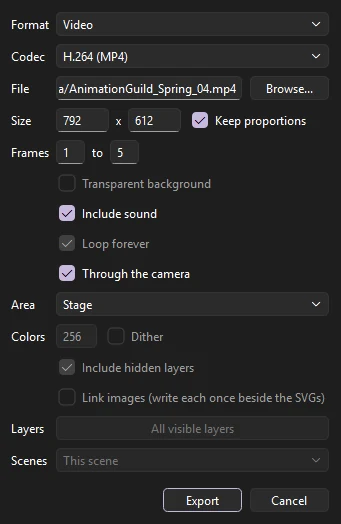
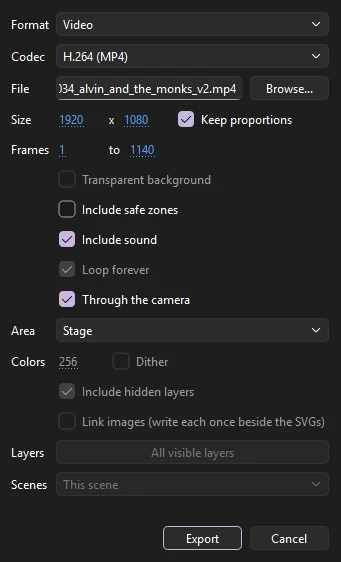
Docs: export settings for images, GIFs, video, SVG, publish, sprites

diff --git a/docs/export.html b/docs/export.html
@@ -4,11 +4,11 @@
 <meta charset="utf-8">
 <meta name="viewport" content="width=device-width, initial-scale=1">
 <title>Exporting and Publishing · Phoenix User Guide</title>
-<meta name="description" content="Export your animation as MP4 or MOV video, animated GIF, PNG sequences, per-layer PNG sequences, SVG sequences, compositing passes, single images, SVG, SWF, sprite sheets or WAV, and publish or queue renders.">
+<meta name="description" content="Export your animation as MP4 or MOV video, animated GIF, PNG, SVG and EXR sequences, compositing passes, PNG, JPEG or GIF images, SVG, SWF, sprite sheets or WAV, with their quality, palette and codec settings, and publish HTML5 pages or queue renders.">
 <meta property="og:type" content="website">
 <meta property="og:site_name" content="Phoenix">
 <meta property="og:title" content="Exporting and Publishing · Phoenix User Guide">
-<meta property="og:description" content="Export your animation as MP4 or MOV video, animated GIF, PNG sequences, per-layer PNG sequences, SVG sequences, compositing passes, single images, SVG, SWF, sprite sheets or WAV, and publish or queue renders.">
+<meta property="og:description" content="Export your animation as MP4 or MOV video, animated GIF, PNG, SVG and EXR sequences, compositing passes, PNG, JPEG or GIF images, SVG, SWF, sprite sheets or WAV, with their quality, palette and codec settings, and publish HTML5 pages or queue renders.">
 <meta property="og:url" content="https://phoenixanimate.com/export.html">
 <meta property="og:image" content="https://phoenixanimate.com/assets/shots/hero.webp">
 <meta property="og:image:type" content="image/webp">
@@ -17,7 +17,7 @@
 <meta property="og:image:alt" content="The Phoenix window with three flower characters on the stage, the timeline below and the Properties panel on the right">
 <meta name="twitter:card" content="summary_large_image">
 <meta name="twitter:image" content="https://phoenixanimate.com/assets/shots/hero.webp">
-<meta name="keywords" content="export movie video mp4 mov h.264 ffmpeg gif animated png sequence per layer transparent background image jpeg svg wav audio size frame range matte render prores exr passes swf publish sprite sheet render queue shots">
+<meta name="keywords" content="export movie video mp4 mov h.264 prores 4444 alpha codec crf aac ffmpeg gif animated palette colors dither loop repeat transparency 8-bit png jpeg quality progressive webp png sequence per layer transparent background image jpeg svg wav audio size frame range matte render prores exr passes swf publish sprite sheet trim padding packed json render queue csv render from data shots publish settings configurations swf sound">
 <link rel="icon" href="assets/img/logo.png">
 <link rel="stylesheet" href="assets/site.css">
 <script>try { const t = localStorage.getItem("phoenix-docs-theme"); if (t) document.documentElement.dataset.theme = t; } catch (e) {}</script>
@@ -29,18 +29,25 @@
 
 <p class="eyebrow">Output</p>
 <h1>Exporting and Publishing</h1>
-<p class="lead">Exports render through the same drawing code as the stage, so what you see is what you get. All export commands are under <span class="menu-path">File &rsaquo; Export</span>.</p>
+<p class="lead">Exports render through the same drawing code as the stage, so what you see is what you get. All export commands are under <span class="menu-path">File &rsaquo; Export</span>, and <span class="menu-path">File &rsaquo; Publish</span> writes a set of formats at once.</p>
 
-<figure class="narrow">
-  <img src="assets/shots/menu-file-export.webp" alt="File, Export submenu: Export to SVG, Export Image, Export Movie, Export Sprite Sheet, Export Shots and Export SWF Movie" width="219" height="150">
-</figure>
+<div class="split">
+  <figure style="margin:0"><img src="assets/shots/menu-file-export.webp" alt="File, Export submenu: Export FLA for Other Apps, Render from Data, Export to SVG, Export Image, Export Movie, Export Sprite Sheet, Export Shots and Export SWF Movie" width="257" height="201"></figure>
+  <dl class="defs" style="grid-template-columns:1fr">
+    <dt>One picture</dt><dd><a href="#export-image">Export Image</a> (PNG, JPEG, GIF) or <a href="#export-to-svg">Export to SVG</a>.</dd>
+    <dt>Moving pictures</dt><dd><a href="#export-movie">Export Movie</a>: video, animated GIF, PNG, SVG and EXR sequences, compositing passes, or the sound alone.</dd>
+    <dt>For players and the web</dt><dd><a href="#swf">Export SWF Movie</a>, and <a href="#publish">Publish</a> for HTML5 pages, SWF and images together.</dd>
+    <dt>For games</dt><dd><a href="#sprite-sheets">Export Sprite Sheet</a>.</dd>
+    <dt>For the studio</dt><dd><a href="#export-shots">Export Shots</a>, <strong>Render from Data</strong> (a movie for each row of a CSV file; see <a href="symbols.html#templates">Templates</a>), and <strong>Export FLA for Other Apps</strong> (a copy with Phoenix's own motion baked in; see <a href="behaviors.html#bake">Bake to keyframes</a>).</dd>
+  </dl>
+</div>
 
 <h2>Export Movie</h2>
 
 <p>Choose <span class="menu-path">File &rsaquo; Export &rsaquo; Export Movie...</span> (<kbd>Ctrl</kbd>+<kbd>Alt</kbd>+<kbd>Shift</kbd>+<kbd>S</kbd>) to render a range of frames.</p>
 
 <div class="split">
-  <figure style="margin:0"><img src="assets/shots/export-movie.webp" alt="Export Movie dialog with format, codec, file, size, frame range, options, area, GIF colors, SVG options, layers and scenes" width="341" height="524"></figure>
+  <figure style="margin:0"><img src="assets/shots/export-movie.webp" alt="Export Movie dialog set to Video with the H.264 codec: file, size, frames 1 to 1140, the options with Include sound and Through the camera checked, area, GIF colors, SVG options, layers and scenes" width="341" height="562"></figure>
   <dl class="defs" style="grid-template-columns:1fr">
     <dt>Format</dt><dd>What to make. See the table below.</dd>
     <dt>File</dt><dd>Where to save it. <strong>Browse...</strong> picks a location.</dd>
@@ -70,6 +77,40 @@
 
 <p>In every export, movie clips play their own animation, guide layers are left out, and locked layers are included. With <span class="menu-path">Control &rsaquo; Enable Simple Frame Actions</span> on, movie clips follow the <code>stop()</code>, <code>play()</code> and goto calls in their frame scripts; see <a href="frames.html#frame-scripts">Frame scripts</a>.</p>
 
+<p>Every format plays at the document's frame rate; to change it, change the frame rate in the Doc tab of the Properties panel first. The file's extension follows the format you pick, and the dialog remembers the format, codec, GIF colors, area and image linking for next time. A progress bar shows while Phoenix renders; <strong>Cancel</strong> stops it, and a cancelled video is deleted rather than left half-written.</p>
+
+<h3 id="video-settings">Video settings</h3>
+
+<p>Phoenix picks the encoder settings for each codec, so there is nothing to tune:</p>
+
+<table>
+  <thead><tr><th>Codec</th><th>Picture</th><th>Sound</th></tr></thead>
+  <tbody>
+    <tr><td>H.264</td><td class="wrap">High quality (constant quality 18), 4:2:0 color, arranged to start playing before it has fully downloaded on the web.</td><td class="wrap">AAC at 192 kbps.</td></tr>
+    <tr><td>ProRes 422 HQ</td><td class="wrap">10-bit 4:2:2 color.</td><td class="wrap">Uncompressed 16-bit.</td></tr>
+    <tr><td>ProRes 4444</td><td class="wrap">10-bit 4:4:4 color, with an alpha channel when <strong>Transparent background</strong> is checked.</td><td class="wrap">Uncompressed 16-bit.</td></tr>
+  </tbody>
+</table>
+
+<p>These codecs need an even width and height, so an odd size loses its last row or column of pixels. Sound is 44.1 kHz stereo; frames with no sound make a video with no audio track. Only H.264 MP4 or MOV and ProRes MOV are made; for another format, convert the MP4 or a PNG sequence with a video tool. See also <a href="video.html">Video</a>.</p>
+
+<h3 id="animated-gif">Animated GIFs</h3>
+
+<p>An animated GIF holds at most 256 colors at a time, so Phoenix chooses a palette for each frame on its own, from the colors that frame uses most, and the colors stay true through a long animation.</p>
+
+<ul>
+  <li><strong>Colors</strong> sets how many each frame may use, from 2 to 256. Fewer colors make a smaller file. Flat cartoon colors survive a small palette well; gradients, soft shadows and photographs need more.</li>
+  <li><strong>Dither</strong> spreads what each pixel misses of its true color onto its neighbors, so gradients look smooth instead of banded. Dithered frames make a larger file and can shimmer as they play; leave it off for flat art.</li>
+  <li><strong>Transparent background</strong> makes the empty parts of each frame clear. GIF has no partial transparency: a pixel more than half see-through becomes clear, and the rest are solid, so soft edges get a hard outline. Over a known background color, export with the stage color instead.</li>
+  <li><strong>Loop forever</strong> plays the GIF over and over; cleared, it plays once. To repeat it a set number of times, publish the GIF from <a href="#publish">Publish Settings</a>.</li>
+</ul>
+
+<p>GIF counts time in hundredths of a second, so Phoenix varies each frame's delay by a hundredth where needed to keep the whole animation in time with the frame rate.</p>
+
+<h3>Image sequences</h3>
+
+<p>Sequences number their files from 0001 after the name you give, with more digits for more than 9999 frames. PNG sequences keep full color and, with <strong>Transparent background</strong>, a clear background with soft edges intact. With <strong>Each scene to its own file</strong>, each scene's sequence is named after the scene.</p>
+
 <h3>About ffmpeg</h3>
 
 <p>Phoenix encodes and reads video with <a href="https://ffmpeg.org/">ffmpeg</a>, which comes with Phoenix: it is installed beside Phoenix itself, so video export and <a href="sound.html#reference-video">video import</a> work with nothing else installed. Phoenix always uses its own copy, never another ffmpeg on the machine, so a movie comes out the same everywhere. ffmpeg is a separate program under the GNU General Public License; its license, and where to get the source it was built from, are in the <code>licenses/ffmpeg</code> folder of the installation (on macOS, inside Phoenix.app).</p>
@@ -79,23 +120,35 @@
 <p><span class="menu-path">File &rsaquo; Export &rsaquo; Export Image...</span> renders a single frame.</p>
 
 <figure>
-  <img src="assets/shots/export-image.webp" alt="Export Image dialog with file, format, size, frame, matte and quality" width="480" height="304">
+  <img src="assets/shots/export-image.webp" alt="Export Image dialog: file, format PNG, size 1920 by 1080 with Keep proportions, frame 1, matte Stage color with a color swatch, quality 90, PNG full color, colors 256 with Dither, and Include safe zones" width="480" height="326">
 </figure>
 
 <dl class="defs">
-  <dt>Format</dt><dd>PNG, JPEG or GIF.</dd>
-  <dt>Size</dt><dd>Any size, with proportions kept if you like.</dd>
-  <dt>Frame</dt><dd>Which frame to render.</dd>
-  <dt>Matte</dt><dd>The background: the stage color, transparent (not for JPEG), or any color.</dd>
+  <dt>File</dt><dd>Where to save it. Typing a name ending in <code>.png</code>, <code>.jpg</code> or <code>.gif</code> picks that format, and picking a format changes the extension.</dd>
+  <dt>Format</dt><dd>PNG, JPEG or GIF. Settings a format doesn't use are grayed out.</dd>
+  <dt>Size</dt><dd>Any size up to 16384 pixels a side, with the stage's proportions kept if you like. The whole stage is drawn at that size, so a larger size gives a sharper picture of the same area.</dd>
+  <dt>Frame</dt><dd>Which frame to render. It starts at the frame the playhead is on.</dd>
+  <dt>Matte</dt><dd>What shows where nothing is drawn: the stage color, transparent (not for JPEG), or any color you pick with the swatch beside it. A stage color that is partly see-through keeps its transparency in a PNG or GIF.</dd>
+  <dt>Quality</dt><dd>For JPEG, from 0 to 100. Higher looks better and makes a larger file. The default is 90.</dd>
+  <dt>PNG</dt><dd><strong>Full color</strong> (24-bit, or 32-bit with transparency), or <strong>8-bit</strong>: a palette of at most 256 colors, a smaller file for flat-colored art.</dd>
+  <dt>Colors</dt><dd>For an 8-bit PNG or a GIF: how many colors the palette has, from 2 to 256, and <strong>Dither</strong> to mix them so gradients stay smooth. Phoenix chooses the palette from the colors the picture uses most.</dd>
   <dt>Include safe zones</dt><dd>Draws the safe zones and aspect-ratio frames over the picture, for a review copy.</dd>
-  <dt>Quality</dt><dd>For JPEG, from 0 to 100. The default is 90.</dd>
-  <dt>PNG</dt><dd><strong>Full color</strong>, or <strong>8-bit</strong>: a palette of at most 256 colors, a smaller file for flat-colored art. Transparency is kept.</dd>
-  <dt>Colors</dt><dd>For an 8-bit PNG or a GIF: how many colors the palette has, and <strong>Dither</strong> to mix them so gradients stay smooth.</dd>
 </dl>
+
+<p>Which to choose: PNG for art with sharp edges, flat color or transparency; JPEG for a picture like a photograph where a small file matters more than crisp edges; GIF or 8-bit PNG for a small file of flat-colored art. In a GIF, and an 8-bit PNG, a pixel is either clear or solid, so soft edges against transparency get a hard outline. Full-color PNG keeps soft edges.</p>
+
+<p>Images are drawn smoothed (anti-aliased), like the stage. Export Image draws the whole stage; to export only part of it, set the size and crop the picture afterward, or use <strong>Everything</strong> in Export Movie for a PNG sequence of all the artwork, pasteboard included. Other image formats, such as WebP, TIFF or BMP, are not available.</p>
 
 <h2>Export to SVG</h2>
 
 <p><span class="menu-path">File &rsaquo; Export &rsaquo; Export to SVG...</span> writes the current frame as an SVG file, which scales cleanly for print and the web. Hidden layers are left out and images are embedded. Masks are written as SVG clip paths, so masked art stays vector; a feathered mask is written as an SVG mask, its shape blurred, so the soft edge stays soft and the art stays vector too. Filters, which SVG cannot express the same way, are included as images, and blend modes draw as Normal.</p>
+
+<p>Export to SVG asks only where to save, and writes the frame the playhead is on at the stage's size. For more control, there are two other ways to get SVG:</p>
+
+<ul>
+  <li><strong>SVG Sequence</strong> in <a href="#export-movie">Export Movie</a> writes one SVG a frame, with <strong>Include hidden layers</strong>, <strong>Link images</strong> to write each bitmap once beside the files, a transparent background, and the <strong>Everything</strong> area for art on the pasteboard. Set the first and last frame to the same frame for a single SVG with these options.</li>
+  <li><strong>SVG image</strong> in <a href="#publish">Publish Settings</a> writes the <code>#Static</code> frame, or the first, with <strong>Include hidden layers</strong> and <strong>Embed images</strong> (cleared, the images are written beside the SVG).</li>
+</ul>
 
 <h2 id="swf">SWF movies</h2>
 
@@ -109,7 +162,20 @@
 
 <h2 id="publish">Publish</h2>
 
-<p><span class="menu-path">File &rsaquo; Publish &rsaquo; Publish Settings...</span> (<kbd>Ctrl</kbd>+<kbd>Shift</kbd>+<kbd>F12</kbd>) chooses what <span class="menu-path">File &rsaquo; Publish</span> (<kbd>Shift</kbd>+<kbd>F12</kbd>) writes: an HTML5 page that plays the movie in any browser (see <a href="#html5">HTML5 pages</a>), an SWF movie and an HTML page that plays it, and PNG, JPEG, GIF and SVG images, each named after the document or with a name of its own. Images take the stage's size or one of their own. PNG can be 24-bit with alpha (a clear background), 24-bit, or 8-bit with a number of colors; JPEG has a quality and can be progressive; GIF can be still or animated, looping forever, playing once or repeating a number of times, with a number of colors; SVG can include hidden layers and embed its images or write them beside it. <strong>SWF sound</strong> sets how the movie's sound is compressed: MP3, ADPCM, raw or none, with its quality, sample rate and channels.</p>
+<p><span class="menu-path">File &rsaquo; Publish &rsaquo; Publish Settings...</span> (<kbd>Ctrl</kbd>+<kbd>Shift</kbd>+<kbd>F12</kbd>) chooses what <span class="menu-path">File &rsaquo; Publish</span> (<kbd>Shift</kbd>+<kbd>F12</kbd>) writes: an HTML5 page that plays the movie in any browser (see <a href="#html5">HTML5 pages</a>), an SWF movie and an HTML page that plays it, and PNG, JPEG, GIF and SVG images. Publish Settings is one page, with where the files go and which formats on the left, and each format's options on the right:</p>
+
+<dl class="defs">
+  <dt>Formats</dt><dd>Check each format to publish. Each has a file name; with <strong>Name each after the document</strong> checked, they are the document's name with the format's extension, and the HTML5 page becomes <code><em>name</em>_html5.html</code> while the HTML page has the plain name. Clear it to type names of your own.</dd>
+  <dt>Image size</dt><dd><strong>Match the stage</strong>, or a width and height of their own for the PNG, JPEG, GIF and SVG images.</dd>
+  <dt>PNG</dt><dd><strong>24-bit with Alpha</strong> (a clear background), <strong>24-bit</strong> (the stage color behind), or <strong>8-bit</strong>, a palette of the number of <strong>Colors</strong> you set.</dd>
+  <dt>JPEG</dt><dd><strong>Quality</strong> from 0 to 100 (80 to start), and <strong>Progressive</strong>, which lets a browser show a rough picture while the rest loads.</dd>
+  <dt>GIF</dt><dd>A still picture, or <strong>Animated</strong>: <strong>Loop forever</strong>, <strong>Play once</strong>, or <strong>Repeat</strong> a number of times, with a number of <strong>Colors</strong>.</dd>
+  <dt>SVG</dt><dd><strong>Include hidden layers</strong>, and <strong>Embed images</strong> in the SVG or write them beside it.</dd>
+  <dt>HTML5</dt><dd><strong>Fit to the window</strong> and <strong>Loop</strong>; see <a href="#html5">HTML5 pages</a>.</dd>
+  <dt>SWF sound</dt><dd>How the SWF movie's sound is compressed: MP3 at 8 to 192 kbps, ADPCM at 2 to 5 bits, Raw or None, with its sample rate and <strong>Stereo</strong>. See <a href="sound.html#swf-sound">In SWF movies</a>.</dd>
+</dl>
+
+<p>The SWF movie itself has no options here: it takes the document's stage size, frame rate and ActionScript version. Settings such as a player version or a password are not available.</p>
 
 <p>A document that has no publish settings of its own publishes an HTML5 page. A file that already has them (from another app, or saved before) publishes what they say; the configuration another app made for every file is called Default.</p>
 
@@ -191,15 +257,18 @@
 </figure>
 
 <dl class="defs">
-  <dt>Frames, Scale</dt><dd>Which frames, and how big, as a percentage.</dd>
+  <dt>File</dt><dd>The PNG to write. The data file goes beside it with the same name.</dd>
+  <dt>Frames, Scale</dt><dd>Which frames, and how big, from 1% to 800% of their size on the stage.</dd>
   <dt>Layout</dt><dd><strong>Grid</strong> puts each frame in a cell the size of the largest, in as many columns as you set (Auto for a sheet as square as fits). <strong>One row</strong> puts them side by side. <strong>Packed</strong> fits them closely, tallest first, in rows no wider than <strong>Max width</strong>.</dd>
-  <dt>Padding</dt><dd>Clear pixels between frames, so a scaled sprite never picks up its neighbor, and around the sheet.</dd>
+  <dt>Padding</dt><dd><strong>Between</strong>: clear pixels between frames (2 to start), so a scaled sprite never picks up its neighbor. <strong>Around</strong>: clear pixels around the edge of the sheet.</dd>
   <dt>Trim clear edges</dt><dd>Keeps only each frame's drawn pixels. The description says where they sit in the whole frame, so the sprite stays put as it plays.</dd>
   <dt>Share repeated frames</dt><dd>A frame the same as an earlier one points at its pixels rather than taking room of its own.</dd>
   <dt>Power-of-two size</dt><dd>Rounds the sheet's sides up to 256, 512, 1024 and so on, for engines that want it.</dd>
   <dt>Stage color behind</dt><dd>Off, the sheet is clear wherever nothing is drawn.</dd>
   <dt>Data</dt><dd>A JSON file beside the image with the same name, describing each frame's place, trim and size, in the hash or array layout most engines and texture tools read; or none.</dd>
 </dl>
+
+<p>Under the preview, the dialog gives the sheet's size and how many frames it holds and draws; a sheet too large for one image says so, and you can lower the scale, use fewer frames, or pack it under a <strong>Max width</strong>. Each frame is named in the data after the scene or symbol and a four-digit frame number (<code>Walk 0001</code>). The dialog remembers its settings for next time. Sprite sheets are PNG only, and the data is JSON only.</p>
 
 <h2 id="render-queue">Render queue</h2>
 
@@ -208,6 +277,8 @@
 <figure>
   <img src="assets/shots/render-queue.webp" alt="Render Queue window listing a document, its output, frames and status, with Add Current, Add Files, Edit, Remove, Up, Down, Clear Finished, Render All and Stop" width="760" height="380">
 </figure>
+
+<p><strong>Add Data...</strong> queues the current document once for each row of a CSV file, its <a href="symbols.html#templates">template fields</a> filled from the row, into a folder you choose, as MP4, MOV, GIF or PNG. The first row names the fields, and a <code>file</code> column names each movie. <strong>Edit...</strong> changes the selected job, and <strong>Up</strong> and <strong>Down</strong> change the order. The queue renders the saved file, so save before you queue.</p>
 
 <p><strong>Render All</strong> runs every waiting job in order, and <strong>Stop</strong> ends the one running. A job shows Waiting, Rendering, Done or Failed; hold the pointer over a failed job to see why. The queue is kept when Phoenix closes.</p>
 
